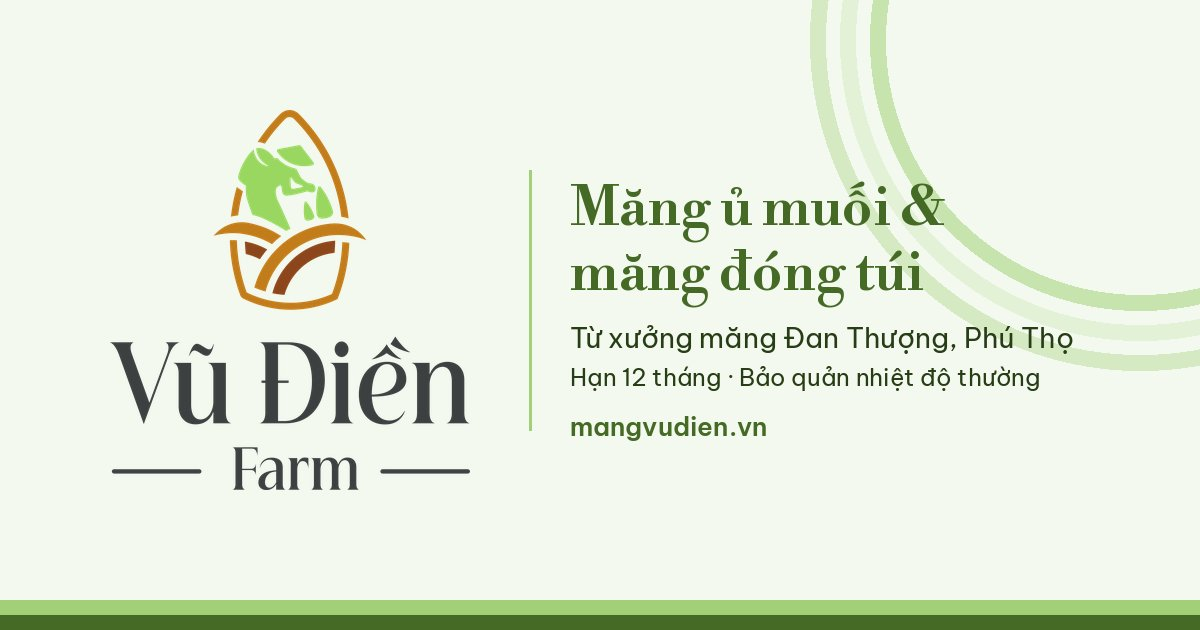
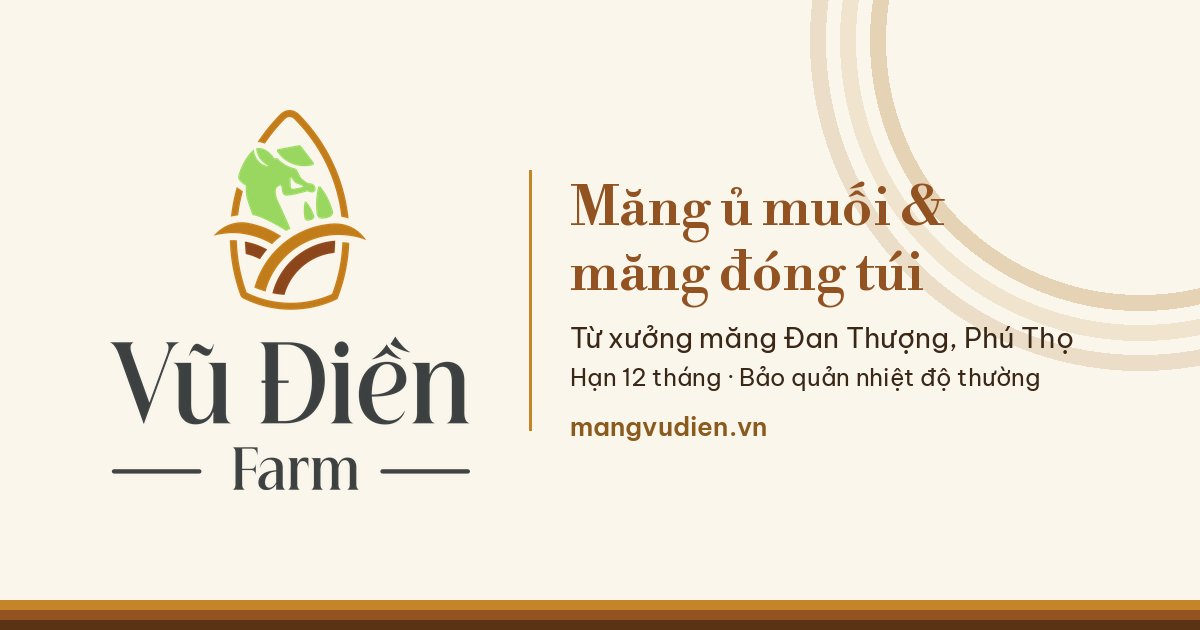
Update the preview site to the brown theme.
Replace the published static files with the new build.

diff --git a/assets/css/site.css b/assets/css/site.css
@@ -1,7 +1,10 @@
 /* Vũ Điền Farm – mangvudien.vn · CSS thuần, mobile-first
-   BẢN XANH LÁ (site-xanh): xanh lá #A1D078 làm màu chủ đạo; xanh đậm cùng sắc độ (hue 92°) cho chữ/nút/liên kết.
-   Tương phản WCAG: #456A25/trắng 6.28:1 · #273D15 trên #A1D078 6.69:1 · #19260D trên cam #C48429 5.04:1.
-   Nâu chỉ còn ở logo và một đường kẻ mảnh; cam chỉ làm điểm nhấn "Gọi" (chữ tối). */
+   BẢN NÂU ĐẤT (2026-10-01): nâu thương hiệu #925222 làm màu chủ đạo, nền kem/be ấm, chữ thân nâu sẫm.
+   Cam #C48429 chỉ làm điểm nhấn cho nút GỌI (chữ nâu sẫm). Xanh lá chỉ còn ở logo + một vệt rất mờ trong hero.
+   Tương phản WCAG (xem tools/contrast_nau.py): chữ thân #3A2716/#FBF6EC 13.16:1 · trắng/nút nâu #925222 6.08:1 ·
+   #2B1A0C trên cam #C48429 5.32:1 · kem #FBF1E1 trên nâu #925222 5.44:1.
+   ĐỔI CHỦ ĐỀ: chỉ cần sửa các biến trong :root bên dưới. Bản xanh lá cũ: ../../../_archive/site-xanh/assets/css/site.css
+   (chép đè tệp này + chạy gen_site.py/make_site_assets.py với VDF_THEME=xanh). */
 
 /* ============================================================
    CÔNG TẮC "KIỂM NGHIỆM" (đang TẮT)
@@ -14,166 +17,195 @@
 @font-face{font-family:"Be Vietnam Pro";src:url(../fonts/be-vietnam-pro-600.woff2) format("woff2");font-weight:600;font-display:swap}
 @font-face{font-family:"Libre Bodoni";src:url(../fonts/libre-bodoni-vf.woff2) format("woff2");font-weight:400 700;font-display:swap}
 
-:root{--nau:#925222;--cam:#C48429;--cam-chu:#19260D;--xanh:#A1D078;--xd:#456A25;--xd-hover:#36531D;--xs:#273D15;--kem:#F4F9EF;--xanh-nhat:#E3F1D6;--chu:#273D15;--vien:#D5EAC2}
+/* ===== BẢNG MÀU (chủ đề nâu đất) ===== */
+:root{
+ --nau:#925222;       /* nâu thương hiệu: tiêu đề, liên kết, nút chính, dải band */
+ --nau-dam:#6E3D19;   /* nâu đậm: hover nút, đầu gradient hero, chữ trên nền kem sáng */
+ --nau-toi:#5A3214;   /* nâu tối nhất của hero */
+ --nau-sam:#3F2716;   /* nâu cà phê: chân trang */
+ --chu:#3A2716;       /* chữ thân */
+ --cam:#C48429;       /* cam logo – CHỈ nút gọi + vài đường viền nhỏ */
+ --cam-hover:#D39540;
+ --cam-chu:#2B1A0C;   /* chữ trên nền cam */
+ --dong:#8A5A1E;      /* đồng/bronze: chữ nhỏ in hoa (kicker), nhãn phụ trên nền sáng */
+ --kem:#FBF6EC;       /* nền trang */
+ --kem-sang:#FFFDF8;  /* nền mục "trắng", thẻ */
+ --be:#F3E8D6;        /* be: ô ảnh chờ, nền phụ */
+ --vien:#E5D5BC;      /* viền mảnh */
+ --ke:#D2B48C;        /* đường kẻ trang trí (tan) */
+ --chu-sang:#FBF1E1;  /* chữ kem trên nền nâu */
+ --vang-nhat:#F6E3C1; /* vàng rơm nhạt: điểm nhấn chữ lớn/biểu tượng trên nền nâu đậm */
+ --nhan:#FFF3DF;      /* nền nhãn "Sắp có", "đang cập nhật" */
+ --xanh:#A1D078;      /* xanh lá logo – chỉ dùng làm vệt trang trí rất mờ */
+}
 *,*::before,*::after{box-sizing:border-box}
 html{-webkit-text-size-adjust:100%;scroll-behavior:smooth}
 body{margin:0;font-family:"Be Vietnam Pro",system-ui,sans-serif;color:var(--chu);background:var(--kem);line-height:1.65;font-size:16px;padding-bottom:64px}
-h1,h2,h3{font-family:"Libre Bodoni",Georgia,serif;color:var(--xd);line-height:1.2;margin:0 0 .5em;font-weight:600}
+h1,h2,h3{font-family:"Bodoni 72","Libre Bodoni",Georgia,serif;color:var(--nau);line-height:1.2;margin:0 0 .5em;font-weight:600;letter-spacing:-.005em}
 h1{font-size:2.1rem}h2{font-size:1.75rem}h3{font-size:1.3rem}
 p{margin:0 0 1em}
-a{color:var(--xd)}
+a{color:var(--nau)}
+a:hover{color:var(--nau-dam)}
 img{max-width:100%;height:auto;display:block}
 ul{padding-left:1.2em}
 .wrap{max-width:1280px;margin:0 auto;padding:0 20px}
-.skip{position:absolute;left:-999px;top:0;background:#fff;padding:8px 12px;z-index:50}
+.skip{position:absolute;left:-999px;top:0;background:var(--kem-sang);padding:8px 12px;z-index:50}
 .skip:focus{left:8px}
-:focus-visible{outline:3px solid var(--xd);outline-offset:2px}
+:focus-visible{outline:3px solid var(--cam);outline-offset:2px}
 
 /* buttons */
-.btn{display:inline-flex;align-items:center;justify-content:center;gap:8px;padding:12px 22px;border-radius:999px;font-weight:600;font-size:15px;text-decoration:none;border:2px solid transparent;line-height:1.2;text-align:center}
-.btn-cam,.btn-nau{background:var(--xd);color:#fff}
-.btn-cam:hover,.btn-nau:hover{background:var(--xd-hover)}
-.btn-vien{border-color:var(--xd);color:var(--xd);background:transparent}
-.btn-vien:hover{background:var(--xd);color:#fff}
-/* trên nền xanh lá sáng: viền + chữ xanh sẫm */
-.btn-vien-trang{border-color:var(--xs);color:var(--xs);background:rgba(255,255,255,.25)}
-.btn-vien-trang:hover{background:var(--xs);color:#fff}
-/* điểm nhấn cam hiếm: nút gọi trên header (desktop) */
-.site-header .nav-cta .btn-cam{background:var(--cam);color:var(--cam-chu)}
-.site-header .nav-cta .btn-cam:hover{background:#d39540}
+.btn{display:inline-flex;align-items:center;justify-content:center;gap:8px;padding:12px 22px;border-radius:999px;font-weight:600;font-size:15px;text-decoration:none;border:2px solid transparent;line-height:1.2;text-align:center;transition:background-color .15s,color .15s,border-color .15s}
+.btn-cam,.btn-nau{background:var(--nau);color:#fff}
+.btn-cam:hover,.btn-nau:hover{background:var(--nau-dam);color:#fff}
+.btn-vien{border-color:var(--nau);color:var(--nau);background:transparent}
+.btn-vien:hover{background:var(--nau);color:#fff}
+/* trên nền nâu (hero, band): nút kem đặc + nút viền kem */
+.hero .btn-cam,.band .btn-cam,.page-hero .btn-cam{background:var(--chu-sang);color:var(--nau-dam)}
+.hero .btn-cam:hover,.band .btn-cam:hover,.page-hero .btn-cam:hover{background:#fff;color:var(--nau-dam)}
+.btn-vien-trang{border-color:var(--chu-sang);color:var(--chu-sang);background:rgba(251,241,225,.06)}
+.btn-vien-trang:hover{background:var(--chu-sang);color:var(--nau-dam)}
+/* điểm nhấn cam hiếm: các nút GỌI (header, 404) – chữ nâu sẫm */
+.site-header .nav-cta .btn-cam,a.btn-cam[href^="tel:"]{background:var(--cam);color:var(--cam-chu)}
+.site-header .nav-cta .btn-cam:hover,a.btn-cam[href^="tel:"]:hover{background:var(--cam-hover);color:var(--cam-chu)}
 .btns{display:flex;flex-wrap:wrap;gap:10px}
 
 /* header */
-.site-header{background:#fff;border-bottom:4px solid var(--xanh);box-shadow:inset 0 -5px 0 -4px var(--nau);position:sticky;top:0;z-index:20}
+.site-header{background:var(--kem-sang);border-bottom:3px solid var(--nau);box-shadow:inset 0 -4px 0 -3px var(--cam);position:sticky;top:0;z-index:20}
 .site-header .wrap{display:flex;align-items:center;justify-content:space-between;min-height:66px;gap:12px}
 .brand{display:flex;align-items:center;gap:10px;text-decoration:none;color:var(--chu);flex:none;white-space:nowrap}
+.brand:hover{color:var(--chu)}
 .brand img{height:44px;width:auto}
-.brand b{font-family:"Libre Bodoni",serif;font-size:22px;font-weight:500;display:block;line-height:1.05}
-.brand small{display:block;font-size:11px;color:var(--xd);letter-spacing:.08em;font-weight:600}
-.nav-toggle{background:none;border:2px solid var(--xd);border-radius:10px;color:var(--xd);font:inherit;font-weight:600;font-size:14px;padding:8px 12px;cursor:pointer}
-.site-nav{display:none;position:absolute;left:0;right:0;top:100%;background:#fff;border-bottom:4px solid var(--xanh);box-shadow:0 10px 20px rgba(0,0,0,.08)}
+.brand b{font-family:"Bodoni 72","Libre Bodoni",serif;font-size:22px;font-weight:500;display:block;line-height:1.05}
+.brand small{display:block;font-size:11px;color:var(--dong);letter-spacing:.08em;font-weight:600}
+.nav-toggle{background:none;border:2px solid var(--nau);border-radius:10px;color:var(--nau);font:inherit;font-weight:600;font-size:14px;padding:8px 12px;cursor:pointer}
+.site-nav{display:none;position:absolute;left:0;right:0;top:100%;background:var(--kem-sang);border-bottom:3px solid var(--nau);box-shadow:0 10px 20px rgba(63,39,22,.10)}
 .site-nav.open{display:block}
 .site-nav ul{list-style:none;margin:0;padding:8px 20px 18px}
-.site-nav li a{display:block;padding:11px 0;border-bottom:1px solid #e6f0dc;text-decoration:none;color:var(--chu);font-weight:600}
-.site-nav li a[aria-current="page"]{color:var(--xd);text-decoration:underline;text-decoration-color:var(--xanh);text-decoration-thickness:3px;text-underline-offset:6px}
+.site-nav li a{display:block;padding:11px 0;border-bottom:1px solid #EFE4D2;text-decoration:none;color:var(--chu);font-weight:600}
+.site-nav li a[aria-current="page"]{color:var(--nau);text-decoration:underline;text-decoration-color:var(--cam);text-decoration-thickness:2px;text-underline-offset:6px}
 .site-nav .nav-cta{display:flex;gap:10px;margin-top:14px;flex-wrap:wrap}
 .site-nav .nav-cta a{border-bottom:2px solid transparent}
 
 /* mobile bottom contact bar */
-.mbar{position:fixed;left:0;right:0;bottom:0;z-index:30;display:grid;grid-template-columns:1fr 1fr;background:#fff;border-top:1px solid var(--vien);box-shadow:0 -4px 14px rgba(0,0,0,.08)}
+.mbar{position:fixed;left:0;right:0;bottom:0;z-index:30;display:grid;grid-template-columns:1fr 1fr;background:var(--kem-sang);border-top:1px solid var(--vien);box-shadow:0 -4px 14px rgba(63,39,22,.10)}
 .mbar a{display:flex;align-items:center;justify-content:center;gap:8px;padding:14px 8px;font-weight:600;text-decoration:none}
 .mbar a:first-child{background:var(--cam);color:var(--cam-chu)}
-.mbar a:last-child{color:var(--xd)}
+.mbar a:last-child{color:var(--nau)}
 .ico{width:18px;height:18px;flex:none;fill:none;stroke:currentColor;stroke-width:2;stroke-linecap:round;stroke-linejoin:round}
 
-/* hero */
-.hero{color:var(--xs);position:relative;overflow:hidden;background:linear-gradient(100deg,rgba(161,208,120,.97) 0%,rgba(161,208,120,.93) 55%,rgba(161,208,120,.8) 100%),repeating-linear-gradient(45deg,#97c96b 0 18px,#a8d482 18px 36px)}
+/* hero – nâu đất sâu, vân tre mảnh, chữ kem */
+.hero{color:var(--chu-sang);position:relative;overflow:hidden;background:linear-gradient(100deg,rgba(90,50,20,.97) 0%,rgba(110,61,25,.95) 50%,rgba(146,82,34,.92) 100%),repeating-linear-gradient(90deg,#5E3415 0 2px,#6E3D19 2px 38px)}
+.hero::after{content:"";position:absolute;left:0;right:0;bottom:0;height:3px;background:linear-gradient(90deg,var(--cam),var(--vang-nhat) 50%,var(--cam))}
 .hero .wrap{display:grid;gap:28px;padding-top:44px;padding-bottom:52px;position:relative;z-index:1}
-.eyebrow{display:block;letter-spacing:.16em;font-size:12px;font-weight:600;color:var(--xs);text-transform:uppercase}
-.hero h1{color:var(--xs);font-size:2.2rem;margin:12px 0 16px}
-.hero .sub{font-size:1.05rem;max-width:620px;opacity:.95}
+.eyebrow{display:inline-flex;align-items:center;gap:10px;letter-spacing:.18em;font-size:12px;font-weight:600;color:var(--vang-nhat);text-transform:uppercase}
+.eyebrow::before{content:"";width:28px;height:1px;background:var(--vang-nhat)}
+.hero h1{color:var(--chu-sang);font-size:2.2rem;margin:12px 0 16px}
+.hero h1 .nw{color:var(--vang-nhat)}
+.hero .sub{font-size:1.05rem;max-width:620px;color:var(--chu-sang)}
 .badges{display:flex;flex-wrap:wrap;gap:8px;margin:20px 0 26px;padding:0;list-style:none}
-.badges li{background:rgba(255,255,255,.45);border:1px solid rgba(39,61,21,.3);padding:6px 14px;border-radius:999px;font-size:14px}
-.hero .note{font-size:14px;margin-top:14px;opacity:.9}
-.hero .note a{color:var(--xs)}
-.curve{position:absolute;right:-160px;bottom:-200px;width:480px;height:480px;border-radius:50%;border:24px solid rgba(255,255,255,.28);box-shadow:0 0 0 28px rgba(69,106,37,.12);pointer-events:none}
-.page-hero{background:var(--xanh);color:var(--xs);padding:34px 0 38px}
-.page-hero h1{color:var(--xs);margin:8px 0 10px}
-.page-hero p{max-width:760px;opacity:.95;margin:0}
-.crumbs{font-size:13px;opacity:.9}
-.crumbs a{color:var(--xs)}
+.badges li{background:rgba(43,26,12,.16);border:1px solid rgba(246,227,193,.45);padding:6px 14px;border-radius:999px;font-size:14px}
+.hero .note{font-size:14px;margin-top:14px}
+.hero .note a{color:var(--chu-sang)}
+.curve{position:absolute;right:-160px;bottom:-200px;width:480px;height:480px;border-radius:50%;border:22px solid rgba(196,132,41,.22);box-shadow:0 0 0 28px rgba(161,208,120,.06),0 0 0 29px rgba(246,227,193,.18);pointer-events:none}
+.page-hero{background:linear-gradient(100deg,var(--nau-toi) 0%,var(--nau-dam) 55%,var(--nau) 100%);color:var(--chu-sang);padding:34px 0 38px;border-bottom:3px solid var(--cam)}
+.page-hero h1{color:var(--chu-sang);margin:8px 0 10px}
+.page-hero p{max-width:760px;margin:0}
+.crumbs{font-size:13px}
+.crumbs a{color:var(--chu-sang)}
 .crumbs ol{list-style:none;padding:0;margin:0;display:flex;flex-wrap:wrap;gap:6px}
 .crumbs li+li::before{content:"›";margin-right:6px}
 
 /* placeholder for photos */
-.ph{background:repeating-linear-gradient(45deg,#e3f1d6 0 14px,#edf6e4 14px 28px);border:2px dashed #a9cc8a;border-radius:14px;display:flex;flex-direction:column;align-items:center;justify-content:center;text-align:center;color:var(--xd);font-size:14px;font-weight:600;padding:16px;min-height:200px}
-.ph small{font-weight:400;font-size:13px;margin-top:4px;opacity:.9}
-.hero .ph{background:rgba(255,255,255,.35);border-color:rgba(39,61,21,.35);color:var(--xs);min-height:260px}
+.ph{background:repeating-linear-gradient(45deg,#F1E6D3 0 14px,#F7EFE2 14px 28px);border:2px dashed var(--ke);border-radius:14px;display:flex;flex-direction:column;align-items:center;justify-content:center;text-align:center;color:var(--nau-dam);font-size:14px;font-weight:600;padding:16px;min-height:200px}
+.ph small{font-weight:400;font-size:13px;margin-top:4px}
+.hero .ph{background:rgba(251,241,225,.08);border-color:rgba(246,227,193,.5);color:var(--chu-sang);min-height:260px}
 .ph-grid{display:grid;grid-template-columns:1fr 1fr;gap:12px}
 .ph-grid .wide{grid-column:1/-1;min-height:240px}
 
 /* sections */
 .sec{padding:52px 0}
-.sec-white{background:#fff}
+.sec-white{background:var(--kem-sang)}
 .sec-head{max-width:720px;margin:0 0 30px}
 .sec-head.center{text-align:center;margin-left:auto;margin-right:auto}
-.kicker{display:block;color:var(--xd);font-weight:600;letter-spacing:.14em;font-size:12px;margin-bottom:6px;text-transform:uppercase}
+.kicker{display:block;color:var(--dong);font-weight:600;letter-spacing:.16em;font-size:12px;margin-bottom:6px;text-transform:uppercase}
 .grid2,.grid3,.grid4{display:grid;gap:22px}
 .lead{font-size:1.08rem}
 
 /* "đang cập nhật" note */
-.cap-nhat{display:inline-block;background:#FBEFDC;color:var(--xs);border:1px solid var(--cam);font-size:12px;font-weight:600;padding:1px 8px;border-radius:5px;vertical-align:middle;white-space:nowrap}
+.cap-nhat{display:inline-block;background:var(--nhan);color:var(--chu);border:1px solid var(--dong);font-size:12px;font-weight:600;padding:1px 8px;border-radius:5px;vertical-align:middle;white-space:nowrap}
 
 /* "Sắp có" – túi bán lẻ 300 g, 500 g chưa nhận đặt hàng (bỏ khi có hàng) */
-.sap-co{display:inline-block;background:#FFF4E0;color:var(--xs);border:1px solid var(--cam);font-family:"Be Vietnam Pro",system-ui,sans-serif;font-size:12px;font-weight:600;line-height:1.5;letter-spacing:.02em;padding:1px 9px;border-radius:999px;vertical-align:middle;white-space:nowrap}
+.sap-co{display:inline-block;background:var(--nhan);color:var(--nau-dam);border:1px solid var(--dong);font-family:"Be Vietnam Pro",system-ui,sans-serif;font-size:12px;font-weight:600;line-height:1.5;letter-spacing:.02em;padding:1px 9px;border-radius:999px;vertical-align:middle;white-space:nowrap}
 .hero h1{text-wrap:balance}
 .hero h1 .nw{white-space:nowrap} /* giữ "tinh hoa hiện đại" trên một dòng */
 
 /* product cards */
-.prod{border:1px solid var(--vien);border-radius:18px;overflow:hidden;background:var(--kem);display:flex;flex-direction:column}
-.prod .ph{border-radius:0;border:0;border-bottom:2px dashed #a9cc8a}
+.prod{border:1px solid var(--vien);border-radius:18px;overflow:hidden;background:var(--kem-sang);display:flex;flex-direction:column;box-shadow:0 1px 0 rgba(63,39,22,.04),0 12px 28px -18px rgba(63,39,22,.25)}
+.prod .ph{border-radius:0;border:0;border-bottom:2px dashed var(--ke)}
 .prod .body{padding:24px;display:flex;flex-direction:column;flex:1}
-.prod .tag{color:var(--xd);font-weight:600;font-size:14px;margin:-4px 0 12px;display:block}
+.prod .tag{color:var(--dong);font-weight:600;font-size:14px;margin:-4px 0 12px;display:block}
 .prod .btns{margin-top:auto}
 .specs{display:grid;grid-template-columns:1fr;gap:4px 16px;margin:16px 0 22px}
-.specs dt{font-weight:600;color:var(--xd);margin-top:8px}
+.specs dt{font-weight:600;color:var(--nau);margin-top:8px}
 .specs dd{margin:0}
-.price{font-weight:600;color:var(--xd)}
+.price{font-weight:600;color:var(--nau)}
 
 /* steps */
 .steps{display:grid;grid-template-columns:1fr;gap:12px;counter-reset:s;list-style:none;padding:0;margin:0}
-.steps li{background:#fff;border-radius:14px;padding:16px 16px 16px 66px;position:relative;border-left:4px solid var(--xanh)}
-.steps li::before{counter-increment:s;content:counter(s);position:absolute;left:14px;top:14px;display:flex;width:38px;height:38px;border-radius:50%;background:var(--xd);color:#fff;align-items:center;justify-content:center;font-family:"Libre Bodoni",serif;font-size:19px}
-.steps b{display:block;color:var(--xd)}
+.steps li{background:var(--kem-sang);border-radius:14px;padding:16px 16px 16px 66px;position:relative;border-left:3px solid var(--ke)}
+.steps li::before{counter-increment:s;content:counter(s);position:absolute;left:14px;top:14px;display:flex;width:38px;height:38px;border-radius:50%;background:var(--nau);color:#fff;align-items:center;justify-content:center;font-family:"Bodoni 72","Libre Bodoni",serif;font-size:19px}
+.steps b{display:block;color:var(--nau)}
 .steps span{font-size:14px}
 .sec-white .steps li{background:var(--kem)}
 
 /* b2b band */
-.band{background:var(--xanh);color:var(--xs)}
-.band h2,.band h3{color:var(--xs)}
-.band .kicker{color:var(--xs)}
-.card{background:rgba(255,255,255,.4);border:1px solid rgba(39,61,21,.2);border-radius:16px;padding:22px}
+.band{background:var(--nau);color:var(--chu-sang)}
+.band h2,.band h3{color:var(--chu-sang)}
+.band .kicker{color:var(--chu-sang)}
+.band a:not(.btn){color:var(--chu-sang)}
+.card{background:rgba(251,241,225,.07);border:1px solid rgba(251,241,225,.22);border-radius:16px;padding:22px}
 .card h3{font-size:1.2rem;margin:10px 0 8px}
 .card p{margin:0}
-.card-num{display:inline-flex;width:36px;height:36px;border-radius:50%;background:var(--xd);color:#fff;align-items:center;justify-content:center;font-weight:600}
-.card-light{background:#fff;border:1px solid var(--vien);border-radius:16px;padding:22px}
+.card-num{display:inline-flex;width:36px;height:36px;border-radius:50%;background:var(--chu-sang);color:var(--nau-dam);align-items:center;justify-content:center;font-weight:600}
+.card-light{background:var(--kem-sang);border:1px solid var(--vien);border-radius:16px;padding:22px}
 .checks{list-style:none;padding:0;margin:0}
-.checks li{padding:9px 0 9px 30px;position:relative;border-bottom:1px solid rgba(69,106,37,.18)}
-.checks li::before{content:"✓";position:absolute;left:4px;color:var(--xd);font-weight:700}
-.band .checks li{border-color:rgba(39,61,21,.2)}
-.band .checks li::before{color:var(--xs)}
-.quick{background:#fff;color:var(--chu);border-radius:16px;padding:24px}
-.quick h3{color:var(--xd)}
+.checks li{padding:9px 0 9px 30px;position:relative;border-bottom:1px solid rgba(146,82,34,.15)}
+.checks li::before{content:"✓";position:absolute;left:4px;color:var(--nau);font-weight:700}
+.band .checks li{border-color:rgba(251,241,225,.2)}
+.band .checks li::before{color:var(--vang-nhat)}
+.quick{background:var(--kem-sang);color:var(--chu);border-radius:16px;padding:24px}
+.quick h3{color:var(--nau)}
+.quick a:not(.btn){color:var(--nau)}
 
 /* japan / export */
-.jp-box{display:grid;gap:22px;background:#fff;border-radius:18px;padding:26px;border:1px solid var(--vien);align-items:center}
-.seal{width:110px;height:110px;border-radius:50%;border:3px solid var(--xanh);display:flex;align-items:center;justify-content:center;font-family:"Libre Bodoni",serif;color:var(--xd);font-size:14px;text-align:center;line-height:1.3;padding:8px}
-.lang-block{border-left:4px solid var(--xanh);padding:4px 0 4px 18px;margin:22px 0}
-.lang-block .lang{font-size:12px;font-weight:600;letter-spacing:.12em;color:var(--xd);text-transform:uppercase}
+.jp-box{display:grid;gap:22px;background:var(--kem-sang);border-radius:18px;padding:26px;border:1px solid var(--vien);align-items:center}
+.seal{width:110px;height:110px;border-radius:50%;border:3px double var(--nau);display:flex;align-items:center;justify-content:center;font-family:"Bodoni 72","Libre Bodoni",serif;color:var(--nau);font-size:14px;text-align:center;line-height:1.3;padding:8px}
+.lang-block{border-left:3px solid var(--cam);padding:4px 0 4px 18px;margin:22px 0}
+.lang-block .lang{font-size:12px;font-weight:600;letter-spacing:.12em;color:var(--dong);text-transform:uppercase}
 :lang(ja){font-family:"Hiragino Sans","Yu Gothic","Noto Sans CJK JP","Noto Sans JP",sans-serif}
 
 /* contact */
 .contact-list{list-style:none;padding:0;margin:0}
-.contact-list li{padding:14px 0;border-bottom:1px solid #eee;display:flex;gap:12px;align-items:flex-start}
-.contact-list .ico{margin-top:4px;color:var(--xd)}
-.contact-list b{display:block;color:var(--xd);font-size:14px}
+.contact-list li{padding:14px 0;border-bottom:1px solid var(--vien);display:flex;gap:12px;align-items:flex-start}
+.contact-list .ico{margin-top:4px;color:var(--nau)}
+.contact-list b{display:block;color:var(--nau);font-size:14px}
 .contact-list a{font-size:1.1rem;font-weight:600;text-decoration:none}
-.tmpl{background:var(--kem);border:1px dashed #a9cc8a;border-radius:12px;padding:16px 18px;font-size:15px}
+.tmpl{background:var(--kem);border:1px dashed var(--ke);border-radius:12px;padding:16px 18px;font-size:15px}
 .tmpl ul{margin:6px 0 0}
-.cta-strip{background:#fff;border-top:1px solid var(--vien)}
+.cta-strip{background:var(--be);border-top:1px solid var(--vien)}
 .cta-strip .wrap{display:grid;gap:16px;padding-top:34px;padding-bottom:34px;align-items:center}
 .cta-strip h2{margin:0}
 
-/* footer */
-.site-footer{background:var(--xanh);color:var(--xs);padding:44px 0 22px;font-size:14px}
-.site-footer a{color:var(--xs);text-decoration:none}
-.site-footer a:hover{text-decoration:underline}
+/* footer – nâu cà phê; logo giữ nguyên màu gốc, đặt trên ô kem */
+.site-footer{background:var(--nau-sam);color:#F3E9DA;padding:44px 0 22px;font-size:14px;border-top:3px solid var(--cam)}
+.site-footer a{color:#F3E9DA;text-decoration:none}
+.site-footer a:hover{text-decoration:underline;color:#fff}
 .site-footer .cols{display:grid;gap:26px}
-.site-footer img{height:110px;width:auto}
-.site-footer h2{color:var(--xs);font-family:"Be Vietnam Pro",sans-serif;font-size:15px;margin-bottom:10px}
+.site-footer img{height:138px;width:auto;background:var(--kem);padding:14px;border-radius:16px}
+.site-footer h2{color:#E9C58A;font-family:"Be Vietnam Pro",sans-serif;font-size:15px;margin-bottom:10px;letter-spacing:.02em}
 .site-footer ul{list-style:none;padding:0;margin:0}
 .site-footer li{padding:3px 0}
-.site-footer .bottom{border-top:1px solid var(--nau);margin-top:30px;padding-top:16px;font-size:13px}
+.site-footer .bottom{border-top:1px solid rgba(246,227,193,.25);margin-top:30px;padding-top:16px;font-size:13px}
 
 /* ---------- tablet ---------- */
 @media (min-width:700px){
@@ -201,14 +233,14 @@ ul{padding-left:1.2em}
   .site-nav{display:flex!important;position:static;border:0;box-shadow:none;background:none;align-items:center;gap:18px}
   .site-nav ul{display:flex;gap:20px;padding:0}
   .site-nav li a{border:0;padding:6px 0;font-size:15px}
-  .site-nav li a:hover{color:var(--xd);text-decoration:underline}
+  .site-nav li a:hover{color:var(--nau);text-decoration:underline;text-decoration-color:var(--cam);text-underline-offset:6px}
   .site-nav .nav-cta{margin:0}
   .hero .wrap{grid-template-columns:1.3fr .7fr;gap:44px;align-items:center;padding-top:80px;padding-bottom:90px}
   .hero h1{font-size:3.3rem}
   .hero .ph{min-height:420px}
   .grid4{grid-template-columns:repeat(4,1fr)}
   .steps{grid-template-columns:repeat(4,1fr)}
-  .steps.seven li{padding:18px 14px;text-align:center;border-left:0;border-top:4px solid var(--xanh)}
+  .steps.seven li{padding:18px 14px;text-align:center;border-left:0;border-top:3px solid var(--ke)}
   .steps.seven li::before{position:static;margin:0 auto 10px}
   .steps.seven{grid-template-columns:repeat(7,1fr)}
   .page-hero{padding:54px 0 58px}

diff --git a/san-pham/mang-u-muoi/index.html b/san-pham/mang-u-muoi/index.html
@@ -7,7 +7,7 @@
 <title>Măng ủ muối (menma) – nguyên liệu cho quán ramen | Vũ Điền Farm</title>
 <meta name="description" content="Măng ủ muối chưa tẩm vị, nguyên liệu menma cho quán ramen, nhà hàng Nhật và nhà phân phối. Làm tại xưởng Đan Thượng, Phú Thọ. Hạn 12 tháng, nhiệt độ thường.">
 <link rel="canonical" href="https://mangvudien.vn/san-pham/mang-u-muoi/">
-<meta name="theme-color" content="#456A25">
+<meta name="theme-color" content="#925222">
 <meta property="og:type" content="website">
 <meta property="og:locale" content="vi_VN">
 <meta property="og:site_name" content="Vũ Điền Farm">

diff --git a/khach-si-nha-hang/index.html b/khach-si-nha-hang/index.html
@@ -7,7 +7,7 @@
 <title>Măng cho nhà hàng, bếp ăn, nhà phân phối | Vũ Điền Farm</title>
 <meta name="description" content="Cung ứng măng ủ muối và măng đóng túi 3–5 kg cho nhà hàng, quán phở bún, quán ramen, bếp ăn tập thể và nhà phân phối. Hạn 12 tháng, nhiệt độ thường. Liên hệ báo giá.">
 <link rel="canonical" href="https://mangvudien.vn/khach-si-nha-hang/">
-<meta name="theme-color" content="#456A25">
+<meta name="theme-color" content="#925222">
 <meta property="og:type" content="website">
 <meta property="og:locale" content="vi_VN">
 <meta property="og:site_name" content="Vũ Điền Farm">

diff --git a/xuat-khau/index.html b/xuat-khau/index.html
@@ -7,7 +7,7 @@
 <title>Xuất khẩu – nguyên liệu menma từ Phú Thọ | Vũ Điền Farm</title>
 <meta name="description" content="Xưởng Vũ Điền Farm tại Phú Thọ, Việt Nam đang cung ứng măng ủ muối – nguyên liệu menma – cho khách hàng Nhật. Doanh nghiệp nhập khẩu xin liên hệ htxvudien@gmail.com.">
 <link rel="canonical" href="https://mangvudien.vn/xuat-khau/">
-<meta name="theme-color" content="#456A25">
+<meta name="theme-color" content="#925222">
 <meta property="og:type" content="website">
 <meta property="og:locale" content="vi_VN">
 <meta property="og:site_name" content="Vũ Điền Farm">

diff --git a/index.html b/index.html
@@ -7,7 +7,7 @@
 <title>Vũ Điền Farm | Măng ủ muối &amp; măng đóng túi – Phú Thọ</title>
 <meta name="description" content="Xưởng măng của HTX Vũ Điền tại Đan Thượng, Phú Thọ: măng ủ muối (menma) và măng đóng túi 3–5 kg cho nhà hàng (túi 300 g, 500 g sắp có). Hạn 12 tháng, nhiệt độ thường.">
 <link rel="canonical" href="https://mangvudien.vn/">
-<meta name="theme-color" content="#456A25">
+<meta name="theme-color" content="#925222">
 <meta property="og:type" content="website">
 <meta property="og:locale" content="vi_VN">
 <meta property="og:site_name" content="Vũ Điền Farm">

diff --git a/san-pham/mang-dong-tui/index.html b/san-pham/mang-dong-tui/index.html
@@ -7,7 +7,7 @@
 <title>Măng đóng túi 3–5 kg cho nhà hàng | Vũ Điền Farm</title>
 <meta name="description" content="Măng đóng túi Vũ Điền Farm: túi nhà hàng 3–5 kg cho quán phở, bún, miến, bếp ăn; túi bán lẻ 300 g, 500 g sắp có. Hạn 12 tháng, bảo quản nhiệt độ thường.">
 <link rel="canonical" href="https://mangvudien.vn/san-pham/mang-dong-tui/">
-<meta name="theme-color" content="#456A25">
+<meta name="theme-color" content="#925222">
 <meta property="og:type" content="website">
 <meta property="og:locale" content="vi_VN">
 <meta property="og:site_name" content="Vũ Điền Farm">

diff --git a/lien-he/index.html b/lien-he/index.html
@@ -7,7 +7,7 @@
 <title>Liên hệ Vũ Điền Farm – 0986 564 343 | Đan Thượng, Phú Thọ</title>
 <meta name="description" content="Liên hệ Vũ Điền Farm (HTX Vũ Điền): điện thoại/Zalo 0986 564 343, email htxvudien@gmail.com. Khu 4, xã Đan Thượng, tỉnh Phú Thọ. Liên hệ báo giá.">
 <link rel="canonical" href="https://mangvudien.vn/lien-he/">
-<meta name="theme-color" content="#456A25">
+<meta name="theme-color" content="#925222">
 <meta property="og:type" content="website">
 <meta property="og:locale" content="vi_VN">
 <meta property="og:site_name" content="Vũ Điền Farm">

diff --git a/ve-chung-toi/index.html b/ve-chung-toi/index.html
@@ -7,7 +7,7 @@
 <title>Về xưởng măng Đan Thượng, Phú Thọ | Vũ Điền Farm</title>
 <meta name="description" content="Vũ Điền Farm là thương hiệu của HTX Vũ Điền. Xưởng chế biến măng ủ muối và măng đóng túi tại Khu 4, xã Đan Thượng, tỉnh Phú Thọ.">
 <link rel="canonical" href="https://mangvudien.vn/ve-chung-toi/">
-<meta name="theme-color" content="#456A25">
+<meta name="theme-color" content="#925222">
 <meta property="og:type" content="website">
 <meta property="og:locale" content="vi_VN">
 <meta property="og:site_name" content="Vũ Điền Farm">

diff --git a/404.html b/404.html
@@ -6,7 +6,7 @@
 <title>Không tìm thấy trang | Vũ Điền Farm</title>
 <meta name="description" content="Trang bạn tìm không tồn tại trên mangvudien.vn.">
 <meta name="robots" content="noindex">
-<meta name="theme-color" content="#456A25">
+<meta name="theme-color" content="#925222">
 <meta property="og:type" content="website">
 <meta property="og:locale" content="vi_VN">
 <meta property="og:site_name" content="Vũ Điền Farm">
